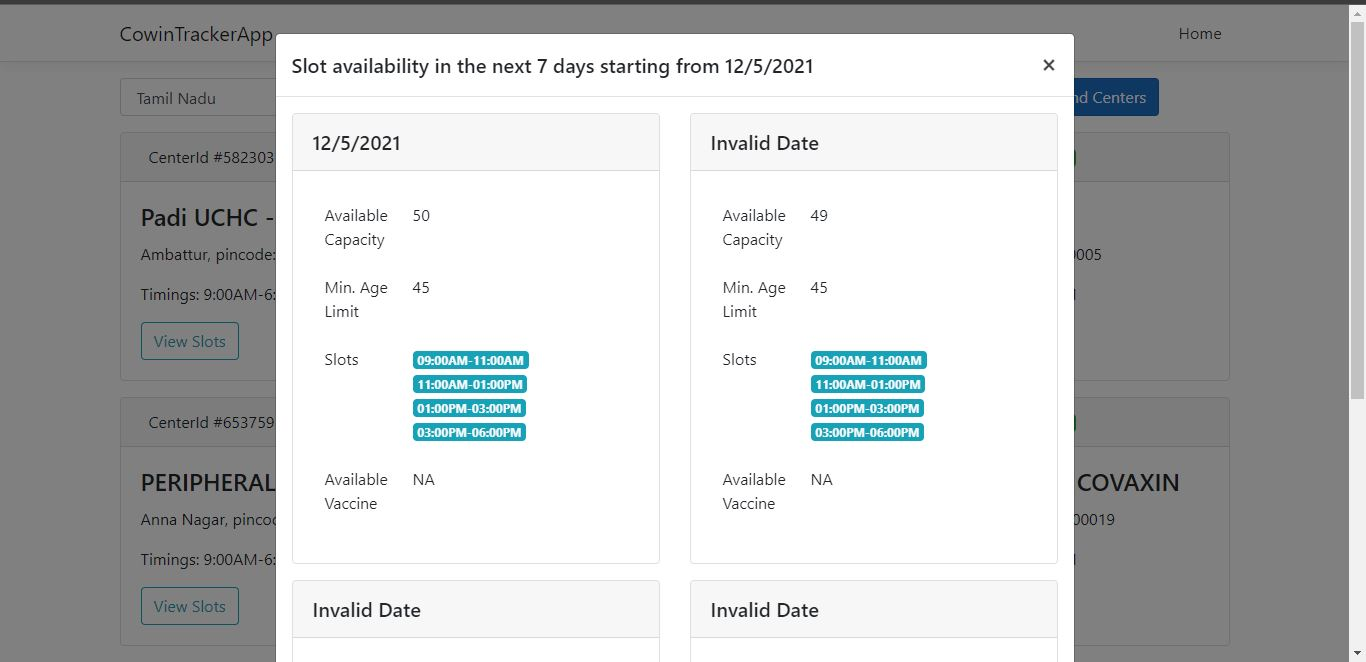
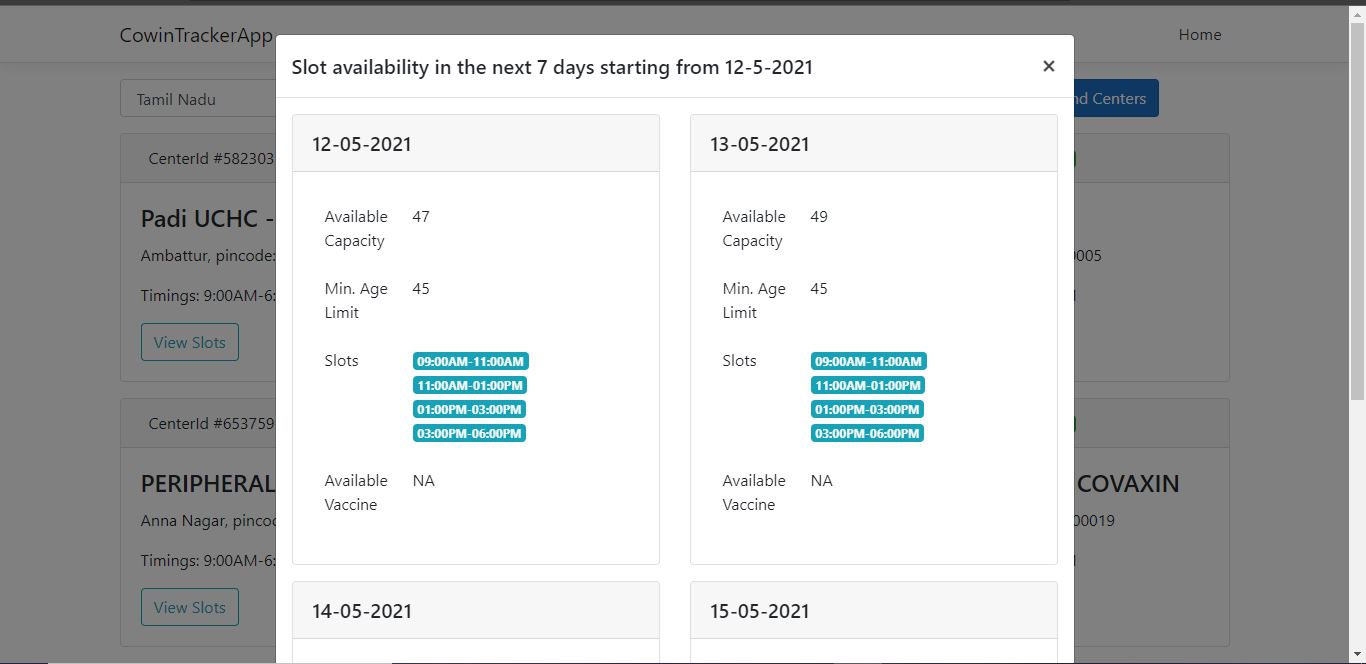
Fixed Date Issue.

diff --git a/CowinTrackerApp/ClientApp/src/app/components/sessions-info/sessions-info.component.ts b/CowinTrackerApp/ClientApp/src/app/components/sessions-info/sessions-info.component.ts
@@ -17,7 +17,9 @@ export class SessionsInfoComponent implements OnInit {
   }
 
   showDate(dateString: string) {
-    return (new Date(dateString)).toLocaleDateString();
+    return dateString;
+    // let parts = dateString.split("-");
+    // return (new Date(dateString)).toLocaleDateString();
   }
 
 }
